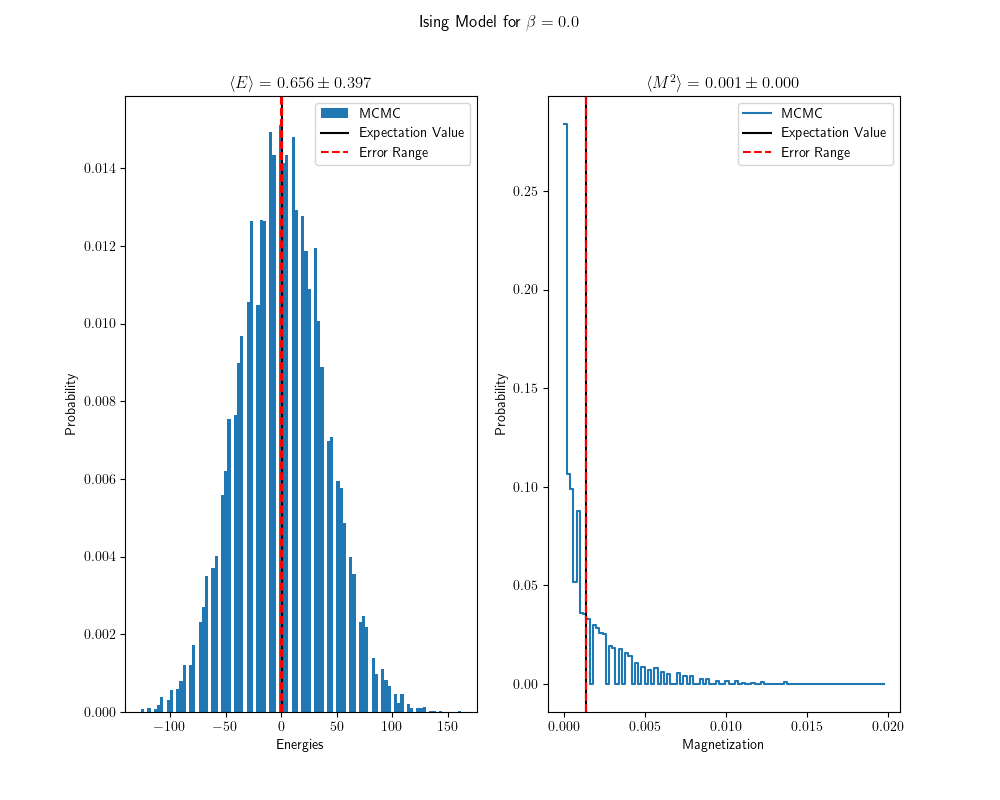
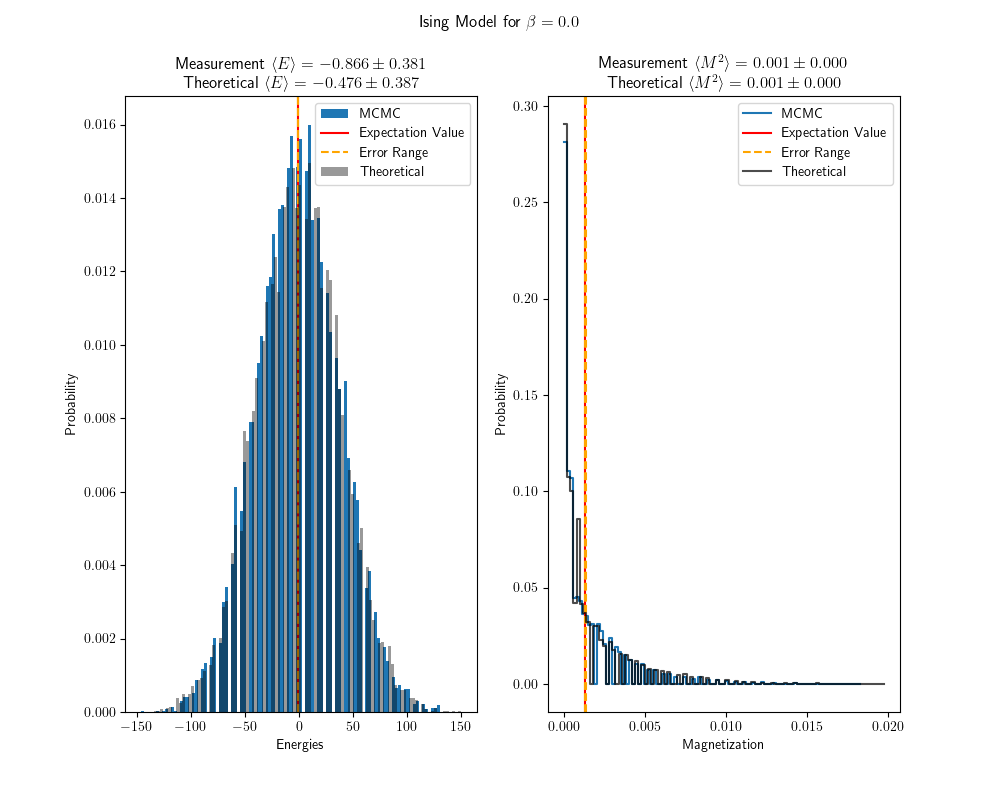
Added Theorectical Evaluations

diff --git a/Statistical Mechanics/MeasuringIsingModel.py b/Statistical Mechanics/MeasuringIsingModel.py
@@ -9,9 +9,10 @@ plt.rcParams["text.usetex"] = True
 if __name__ == "__main__":
     L = 27
     system = np.random.choice([1, -1], size=(L, L))
-    betas = np.arange(0, 1.1, 0.1)
-    betas = np.append(betas, [100])
+    #betas = np.arange(0, 1.1, 0.1)
+    #betas = np.append(betas, [100])
     #beta = 100
+    betas = [0, 100]
     masks = im.create_masks(L)
 
     for beta in betas:
@@ -44,36 +45,59 @@ if __name__ == "__main__":
             #Energy
             energies.append(im.Energy(system))
         
-        mean1, var1, err1, cor1 = st.Stats(np.array(mags))
-        mean2, var2, err2, cor2 = st.Stats(np.array(energies))
+        magMean, magVar, magErr, magCor = st.Stats(np.array(mags))
+        energyMean, energyVar, energyErr, energyCor = st.Stats(np.array(energies))
 
-        hist, bins = np.histogram(mags, bins=100)
+        magHist, magBins = np.histogram(mags, bins=100)
 
+        # Theorectical calculation
+        theoryEnergies = []
+        theoryMags = []
+        if beta == 0:
+            for i in range(10000):
+                theorySystem = np.random.choice([1, -1], p =[0.5, 0.5], size=(L,L))
+                theoryEnergies.append(im.Energy(theorySystem))
+                theoryMags.append(np.mean(theorySystem)**2)
+        elif beta == 100:
+            for i in range(10000):
+                theorySystem = np.ones_like(system)
+                theoryEnergies.append(im.Energy(theorySystem))
+                theoryMags.append(np.mean(theorySystem)**2)
 
         #Plotting
         fig, ax = plt.subplots(1, 2, figsize=(10, 8))
         ax[0].hist(energies, density=True, bins=100, label="MCMC")
-        ax[0].axvline(mean2, ls="solid", color="black", label="Expectation Value")
-        ax[0].axvline(mean2 - err2, ls="dashed",  color="red", label="Error Range")
-        ax[0].axvline(mean2 + err2, ls="dashed",  color="red")
-        #ax.plot(x_points, theory_configs, "r.", label="Theoretical value")
+        ax[0].axvline(energyMean, ls="solid", color="red", label="Expectation Value")
+        ax[0].axvline(energyMean - energyErr, ls="dashed",  color="orange", label="Error Range")
+        ax[0].axvline(energyMean + energyErr, ls="dashed",  color="orange")
         ax[0].set_xlabel("Energies")
         ax[0].set_ylabel("Probability")
-        ax[0].set_title(r"$\langle E \rangle = {:.3f} \pm {:.3f}$".format(mean2, err2))
-        ax[0].legend(loc = 'upper right')
-        #fig.savefig("Plots/Simulating Ising Model")
-        ax[1].step(bins[:-1], hist/np.sum(hist), where="post", label="MCMC")
-        #ax[1].hist(mags, weights=hist/np.sum(hist), bins=100, label="MCMC")
-        ax[1].axvline(mean1, ls="solid", color="black", label="Expectation Value")
-        ax[1].axvline(mean1 - err1, ls="dashed",  color="red", label="Error Range")
-        ax[1].axvline(mean1 + err1, ls="dashed",  color="red")
+        ax[1].step(magBins[:-1], magHist/np.sum(magHist), where="post", label="MCMC")
+        ax[1].axvline(magMean, ls="solid", color="red", label="Expectation Value")
+        ax[1].axvline(magMean - magErr, ls="dashed",  color="orange", label="Error Range")
+        ax[1].axvline(magMean + magErr, ls="dashed",  color="orange")
         ax[1].set_xlabel("Magnetization")
         ax[1].set_ylabel("Probability")
-        ax[1].set_title(r"$\langle M^2 \rangle = {:.3f} \pm {:.3f}$".format(mean1, err1))
+        
+        if len(theoryEnergies) != 0:
+            tMagMean, tMagVar, tMagErr, tMagCor = st.Stats(np.array(theoryMags))
+            tEnergyMean, tEnergyVar, tEnergyErr, tEnergyCor = st.Stats(np.array(theoryEnergies))
+            tMagHist, tMagBins = np.histogram(theoryMags, bins=100)
+            tEnergyHist, tEnergyBins = np.histogram(theoryEnergies, bins=100)
+
+            ax[0].hist(theoryEnergies, density=True, bins=100, label="Theoretical", zorder=100, alpha=0.4, color="black")
+            ax[0].set_title("Measurement $\langle E \\rangle = {:.3f} \pm {:.3f}$ \n Theoretical $\langle E \\rangle = {:.3f} \pm {:.3f}$".format(energyMean, energyErr, tEnergyMean, tEnergyErr))
+            ax[1].step(tMagBins[:-1], tMagHist/np.sum(tMagHist), where="post", label="Theoretical", color="black", alpha=0.7)
+            ax[1].set_title("Measurement $\langle M^2 \\rangle = {:.3f} \pm {:.3f}$ \n Theoretical $\langle M^2 \\rangle = {:.3f} \pm {:.3f}$".format(magMean, magErr, tMagMean, tMagErr))
+        else:
+            ax[0].set_title(r"$\langle E \rangle = {:.3f} \pm {:.3f}$".format(energyMean, energyErr))
+            ax[1].set_title(r"$\langle M^2 \rangle = {:.3f} \pm {:.3f}$".format(magMean, magErr))
+
+        ax[0].legend(loc = 'upper right')
         ax[1].legend(loc = 'upper right')
-        #fig.savefig("Plots/Simulating Ising Model")
         fig.suptitle(r"Ising Model for $\beta = {:.1f}$".format(beta))
         fig.savefig("Plots/Ising Model for beta = {:.1f}.png".format(beta))
+            
 
         fig2, ax2 = plt.subplots(1, 1)
         ax2.matshow(system)
